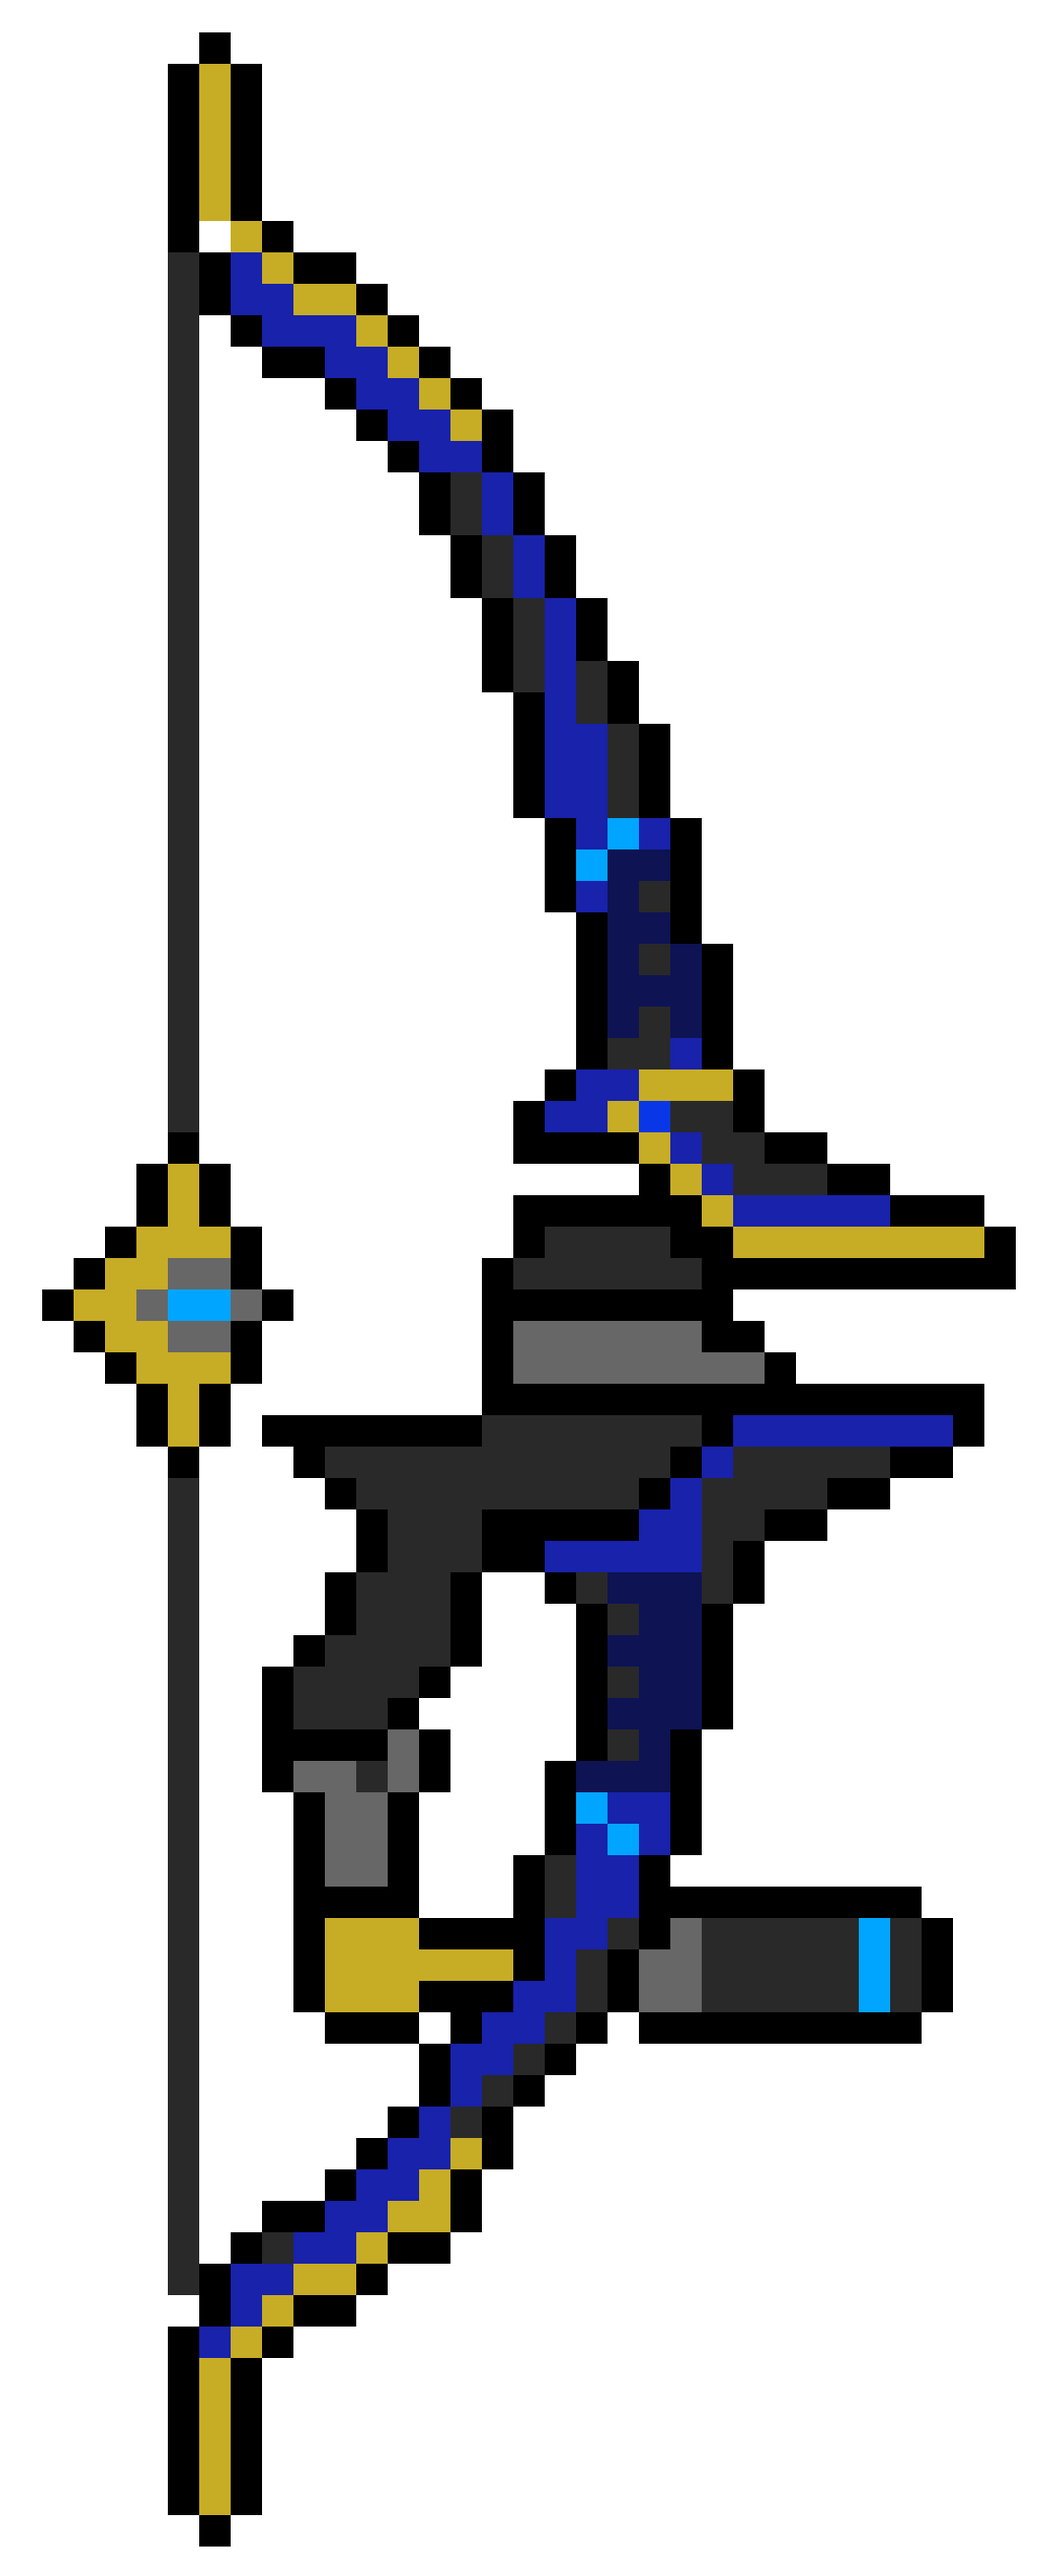
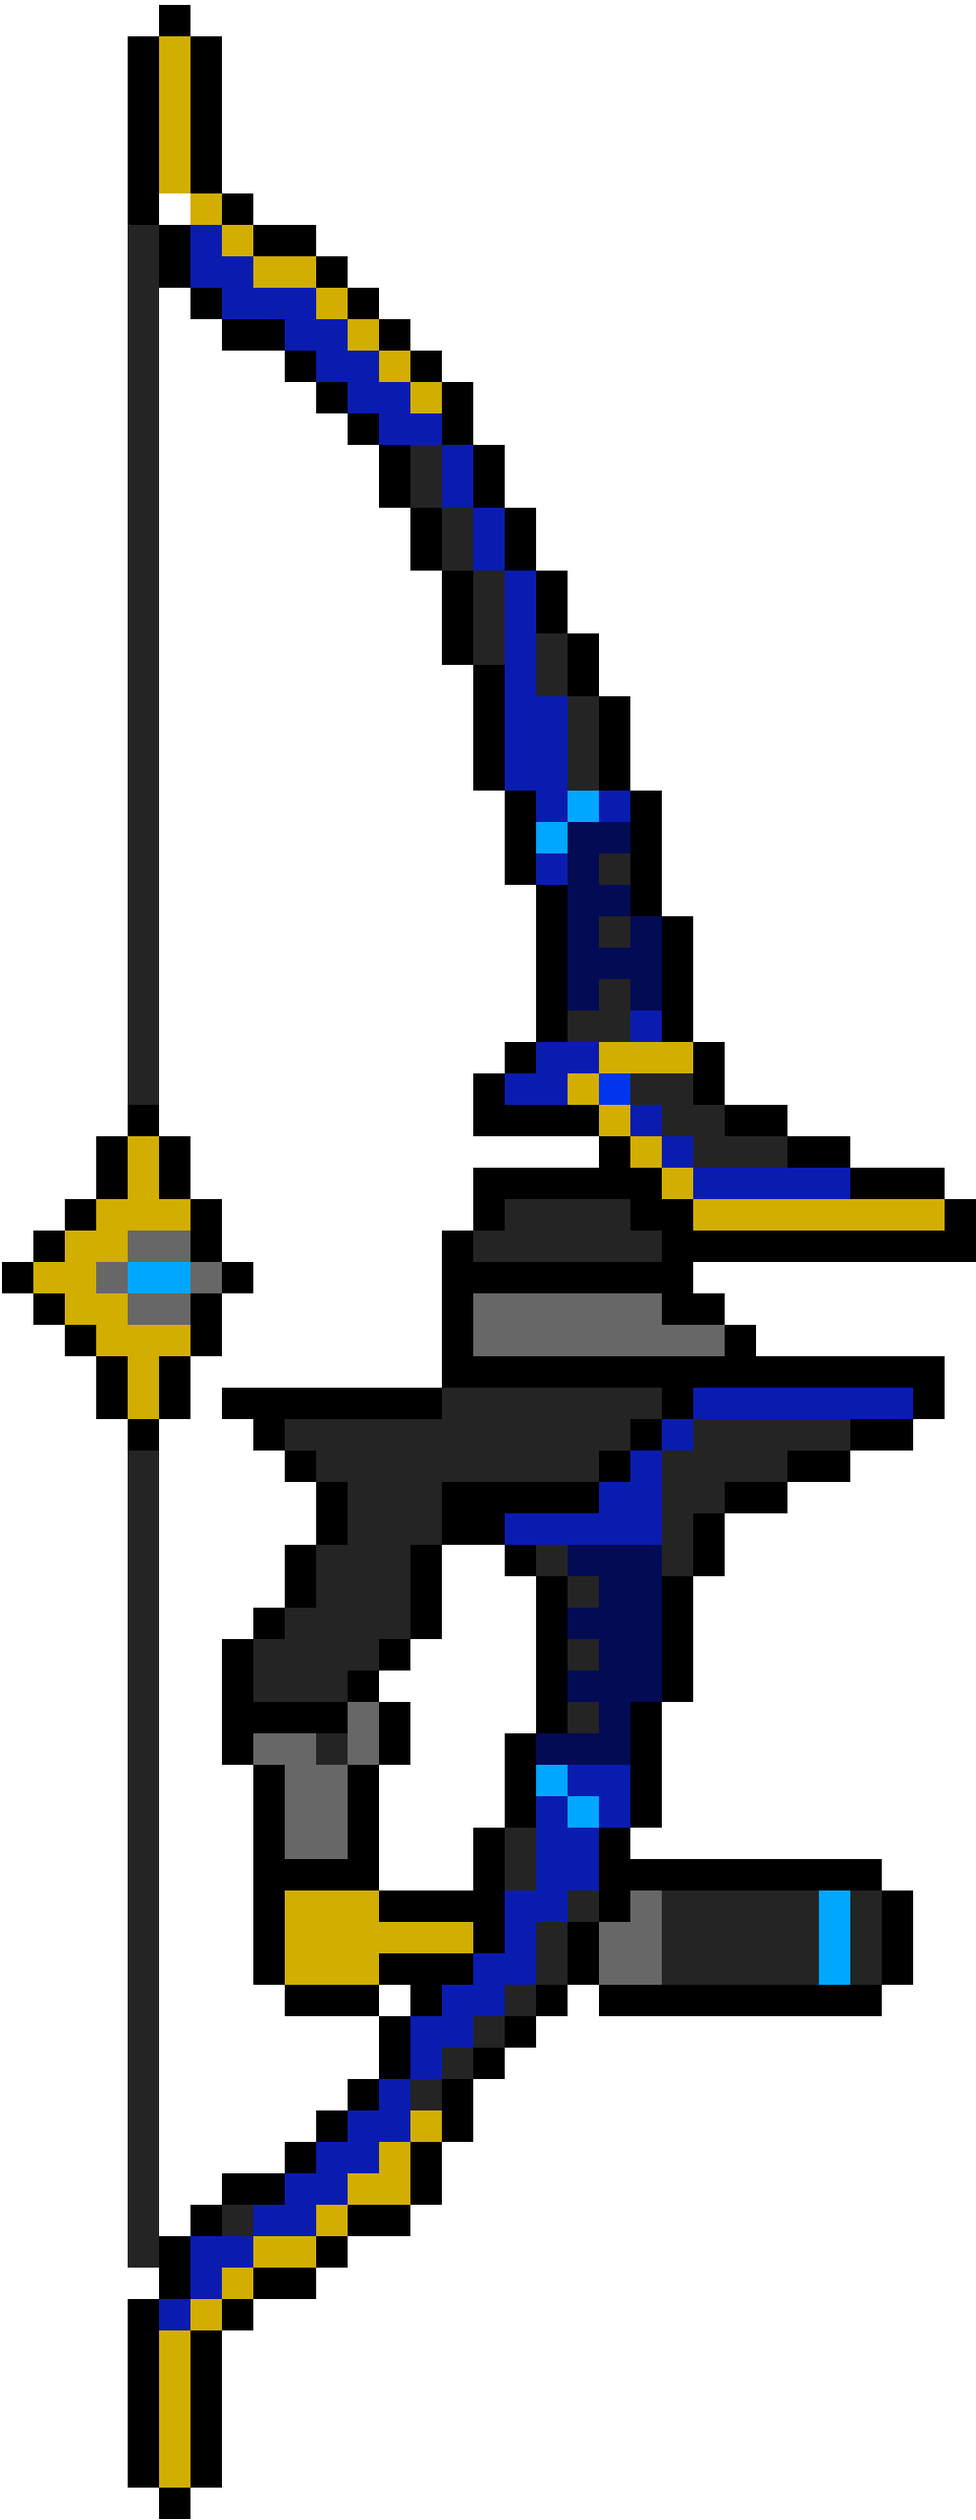
flip da textura com movimento

Changed region(s): [[0.0, 0.0, 1.0, 1.0], [0.4366, 0.53, 0.4678, 0.5612]]

diff --git a/Game/src/Entidade/Personagem/Inimigo/Chefao/Chefao.cpp b/Game/src/Entidade/Personagem/Inimigo/Chefao/Chefao.cpp
@@ -26,11 +26,15 @@ namespace Inimigos {
 		{
 			if (pPlayer->getPos().x < body.getPosition().x) {
 				facing_left = true;
+				body.setOrigin(body.getSize().x, 0.f);
+				body.setScale(-1.f, 1.f);
 				if (pPlayer->getPos().x + pPlayer->getEntSize().x < body.getPosition().x - action_radius)
 					body.move(sf::Vector2f(-vel.x, 0.f));
 			}
 			else if (pPlayer->getPos().x > body.getPosition().x) {
 				facing_left = false;
+				body.setOrigin(0.f, 0.f);
+				body.setScale(1.f, 1.f);
 				if (pPlayer->getPos().x + pPlayer->getEntSize().x > body.getPosition().x + action_radius)
 					body.move(sf::Vector2f(vel.x, 0.f));
 			}

diff --git a/Game/src/Entidade/Personagem/Inimigo/Disparador/Disparador.cpp b/Game/src/Entidade/Personagem/Inimigo/Disparador/Disparador.cpp
@@ -29,11 +29,15 @@ namespace Inimigos {
 		{
 			if (pPlayer->getPos().x < body.getPosition().x) {
 				facing_left = true;
+				body.setOrigin(body.getSize().x, 0.f);
+				body.setScale(-1.f, 1.f);
 				if (pPlayer->getPos().x + pPlayer->getEntSize().x < body.getPosition().x - attack_radius)
 					body.move(sf::Vector2f(-vel.x, 0.f));
 			}
 			else if (pPlayer->getPos().x > body.getPosition().x) {
 				facing_left = false;
+				body.setOrigin(0.f, 0.f);
+				body.setScale(1.f, 1.f);
 				if (pPlayer->getPos().x + pPlayer->getEntSize().x > body.getPosition().x + attack_radius)
 					body.move(sf::Vector2f(vel.x, 0.f));
 			}

diff --git a/Game/src/Entidade/Personagem/Jogador/Ninja.cpp b/Game/src/Entidade/Personagem/Jogador/Ninja.cpp
@@ -40,11 +40,15 @@ namespace Jogadores {
 			body.move(vel.x, 0.f);
 			facing_left = false;
 			sf::Listener::setDirection(1.f, 0.f, 0.f);
+			body.setOrigin(0.f, 0.f);
+			body.setScale(1.f, 1.f);
 		}
 		if (sf::Keyboard::isKeyPressed(sf::Keyboard::Left)) {//Esquerda
 			body.move(-vel.x, 0.f);
 			facing_left = true;
 			sf::Listener::setDirection(-1.f, 0.f, 0.f);
+			body.setOrigin(body.getSize().x, 0.f);
+			body.setScale(-1.f, 1.f);
 		}
 		if (god_mode) {
 			if ( sf::Keyboard::isKeyPressed(sf::Keyboard::Up))//Cima

diff --git a/Game/src/Entidade/Personagem/Jogador/Lutadora.cpp b/Game/src/Entidade/Personagem/Jogador/Lutadora.cpp
@@ -40,11 +40,15 @@ namespace Jogadores {
 			body.move(vel.x, 0.f);
 			facing_left = false;
 			sf::Listener::setDirection(1.f, 0.f, 0.f);
+			body.setOrigin(0.f, 0.f);
+			body.setScale(1.f,1.f);
 		}
 		if (sf::Keyboard::isKeyPressed(sf::Keyboard::A)) {//Esquerda
 			body.move(-vel.x, 0.f);
 			facing_left = true;
 			sf::Listener::setDirection(-1.f, 0.f, 0.f);
+			body.setOrigin(body.getSize().x, 0.f);
+			body.setScale(-1.f, 1.f);
 		}
 		if (god_mode) {
 			if (sf::Keyboard::isKeyPressed(sf::Keyboard::W))//Cima

diff --git a/Game/src/Entidade/Personagem/Inimigo/CorpoACorpo/CorpoACorpo.cpp b/Game/src/Entidade/Personagem/Inimigo/CorpoACorpo/CorpoACorpo.cpp
@@ -21,10 +21,14 @@ namespace Inimigos {
 		{
 			if (pPlayer->getPos().x < body.getPosition().x) {
 				facing_left = true;
+				body.setOrigin(body.getSize().x, 0.f);
+				body.setScale(-1.f, 1.f);
 				body.move(sf::Vector2f(-vel.x, 0.f));
 			}
 			else if (pPlayer->getPos().x > body.getPosition().x) {
 				facing_left = false;
+				body.setOrigin(0.f, 0.f);
+				body.setScale(1.f, 1.f);
 				body.move(sf::Vector2f(vel.x, 0.f));
 			}
 		}

diff --git a/Game/src/Entidade/Projetil/Projetil.cpp b/Game/src/Entidade/Projetil/Projetil.cpp
@@ -50,11 +50,15 @@ int Projetil::getLife() const
 void Projetil::setEsquerda()
 {
 	facing_left = true;
+	body.setOrigin(body.getSize().x, 0.f);
+	body.setScale(-1.f, 1.f);
 }
 
 void Projetil::setDireita()
 {
 	facing_left = false;
+	body.setOrigin(0.f, 0.f);
+	body.setScale(1.f, 1.f);
 }
 
 void Projetil::setEntColidiu(Entidade* pauxColidiu)

diff --git a/Game/src/Entidade/Arma/Arma.cpp b/Game/src/Entidade/Arma/Arma.cpp
@@ -35,11 +35,15 @@ bool Arma::getMovable() const
 void Arma::setEsquerda()
 {
 	facing_left = true;
+	body.setOrigin(body.getSize().x, 0.f);
+	body.setScale(-1.f, 1.f);
 }
 
 void Arma::setDireita()
 {
 	facing_left = false;
+	body.setOrigin(0.f, 0.f);
+	body.setScale(1.f, 1.f);
 }
 
 void Arma::move()
